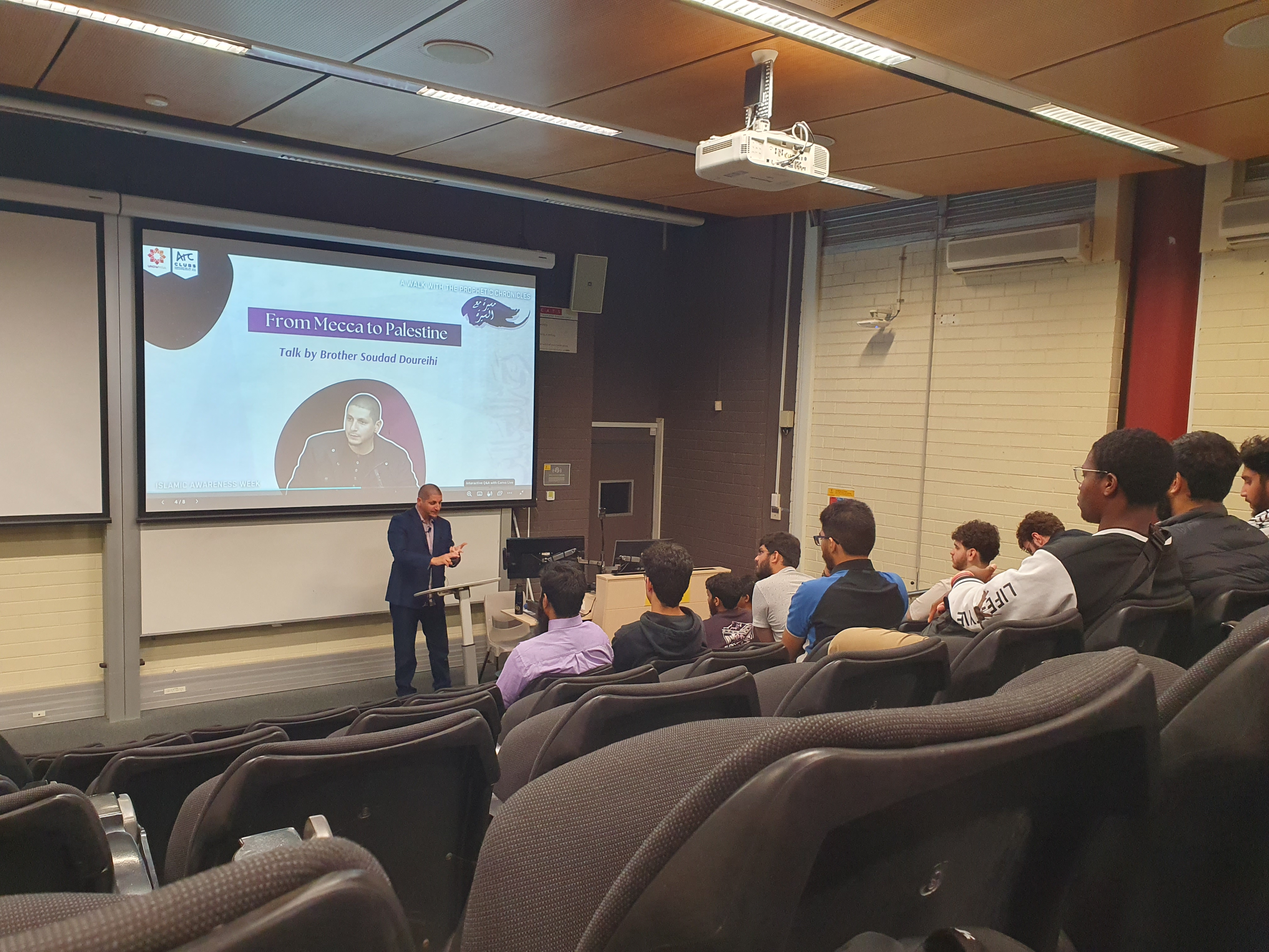
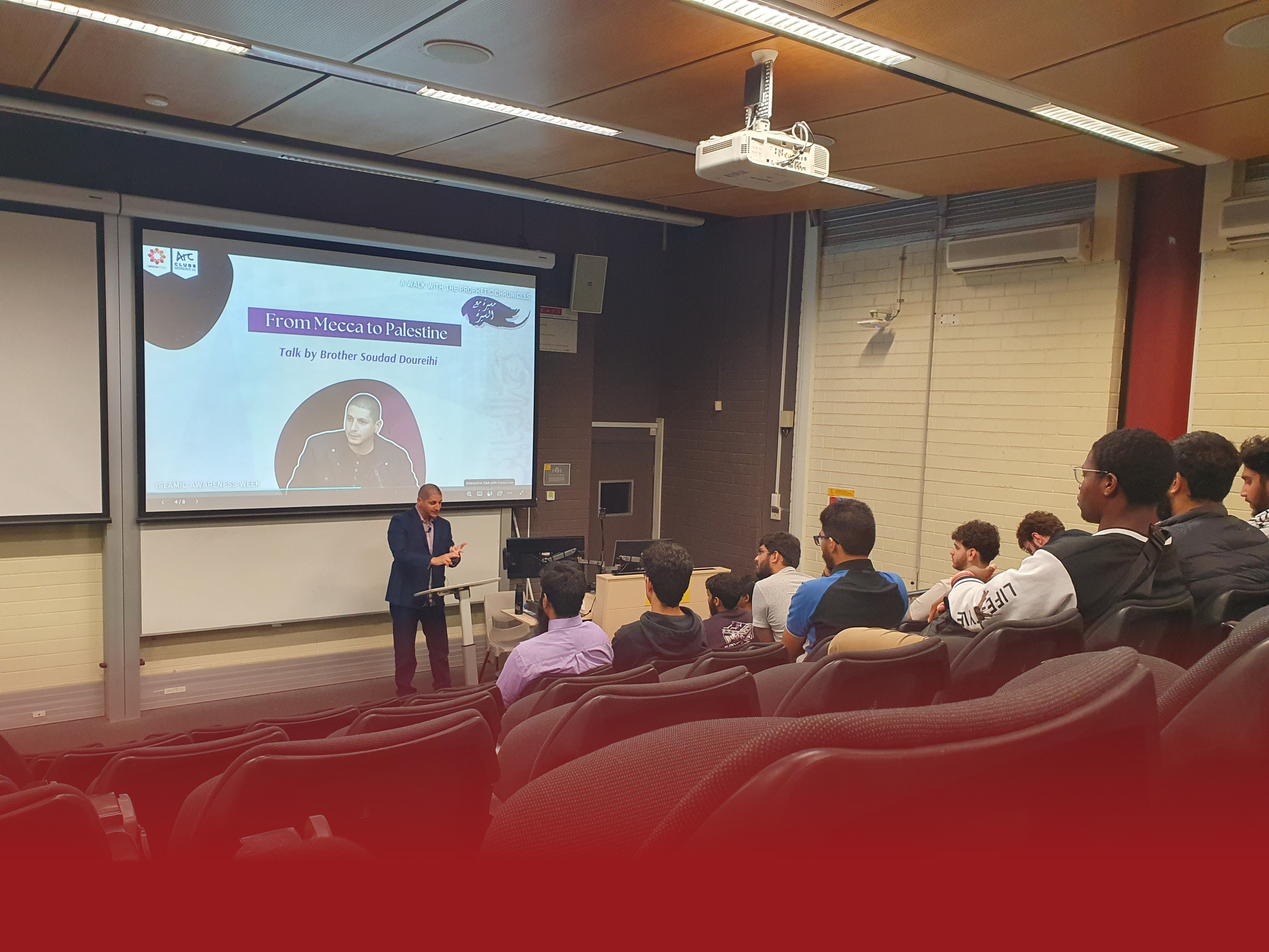
more content update, and some color management

Changed region(s): [[0.0, 0.6528, 1.0, 1.0]]

diff --git a/src/pages/About.jsx b/src/pages/About.jsx
@@ -43,7 +43,7 @@ const About = () => {
             alt="Background"
             className="w-full h-full object-cover"
           />
-          <div className="absolute inset-0 bg-[#561C24] opacity-80"></div>
+          <div className="absolute inset-0 bg-[#961a1e] opacity-50"></div>
         </div>
         
         <div className="relative z-10 max-w-7xl mx-auto px-4 md:px-8 h-full flex items-center">
@@ -62,7 +62,7 @@ const About = () => {
       </section>
 
       {/* Vision Section */}
-      <section className="min-h-screen md:h-screen md:snap-start relative py-16 md:py-0 bg-gradient-to-b from-[#561C24] to-[#CD4631]">
+      <section className="min-h-screen md:h-screen md:snap-start relative py-16 md:py-0 bg-gradient-to-b from-[#961a1e] to-[#ad3724]">
         <div className="max-w-7xl mx-auto px-4 md:px-8 h-full flex items-center">
           <div className="grid grid-cols-1 md:grid-cols-2 gap-12 md:gap-24 items-center">
             <div>
@@ -92,7 +92,7 @@ const About = () => {
       </section>
 
       {/* Team Section */}
-      <section className="min-h-screen md:h-screen md:snap-start py-16 md:py-0 bg-[#CD4631]">
+      <section className="min-h-screen md:h-screen md:snap-start py-16 md:py-0 bg-[#ad3724]">
         <div className="max-w-7xl mx-auto px-4 md:px-8 h-full flex flex-col justify-center">
           <h2 className="text-3xl md:text-5xl text-white mb-8 md:mb-12">Meet Our Team</h2>
           <div className="grid grid-cols-2 sm:grid-cols-3 md:grid-cols-5 gap-x-4 gap-y-8 md:gap-x-24 md:gap-y-10 max-w-7xl mx-auto">

diff --git a/src/components/EventCard.jsx b/src/components/EventCard.jsx
@@ -14,7 +14,7 @@ const EventCard = ({
   return (
     <div 
       className={`
-        bg-[#CD4631] rounded-lg overflow-hidden 
+        bg-[#e76925] rounded-lg overflow-hidden 
         flex flex-col
         ${isFeatured ? 'h-full' : 'h-fit'}
         ${className}
@@ -26,7 +26,7 @@ const EventCard = ({
           alt={title}
           className={`w-full object-cover ${imageClassName}`}
         />
-        <div className="absolute bottom-0 left-0 w-full p-2 md:p-4 bg-[#CD4631]">
+        <div className="absolute bottom-0 left-0 w-full p-2 md:p-4 bg-[#e76925]">
           <h3 className="text-white text-sm sm:text-base md:text-xl">
             {title || "event name/promo"}
           </h3>
@@ -51,7 +51,7 @@ const EventCard = ({
                 px-3 md:px-8 py-1 md:py-2
                 text-xs md:text-base
                 text-white
-                hover:bg-white hover:text-[#CD4631] 
+                hover:bg-white hover:text-[#e76925] 
                 transition-colors
               "
             >

diff --git a/src/pages/GetInvolved.jsx b/src/pages/GetInvolved.jsx
@@ -5,7 +5,7 @@ import AccordionItem from '../components/Accordion';
 const GetInvolved = () => {
   return (
     <div className="h-screen md:snap-y md:snap-mandatory overflow-y-auto">
-      <section className="min-h-screen md:h-screen md:snap-start bg-[#561C24] pt-20 pb-16 md:py-0">
+      <section className="min-h-screen md:h-screen md:snap-start bg-[#ad3724] pt-20 pb-16 md:py-0">
         <div className="max-w-7xl mx-auto px-4 md:px-8 h-full flex items-center">
           <div className="grid grid-cols-1 md:grid-cols-2 gap-8 md:gap-16 w-full">
             {/* Left side content */}
@@ -52,7 +52,7 @@ const GetInvolved = () => {
             {/* Right side - Logo */}
             <div className="flex items-center justify-center order-1 md:order-2 mb-8 md:mb-0">
               <img
-                src="/api/placeholder/600/600"
+                src="src/assets/msa-logo.png"
                 alt="UNSWMSA 3D Logo"
                 className="w-48 md:w-full md:max-w-md h-auto"
               />

diff --git a/src/pages/Events.jsx b/src/pages/Events.jsx
@@ -85,7 +85,7 @@ const Events = () => {
               <h1 className="text-3xl md:text-6xl mb-4">
                 We'd love to see you at
                 <br />
-                <span className="bg-[#CD4631] text-white px-2 mt-2 inline-block">O-Week 2025</span>
+                <span className="bg-[#e76925] text-white px-2 mt-2 inline-block">O-Week 2025</span>
               </h1>
               <p className="text-base md:text-lg mb-8">
                 Come join the brotherhood & sisterhood, join amazing volunteering teams, and walk away with some awesome freebies! 
